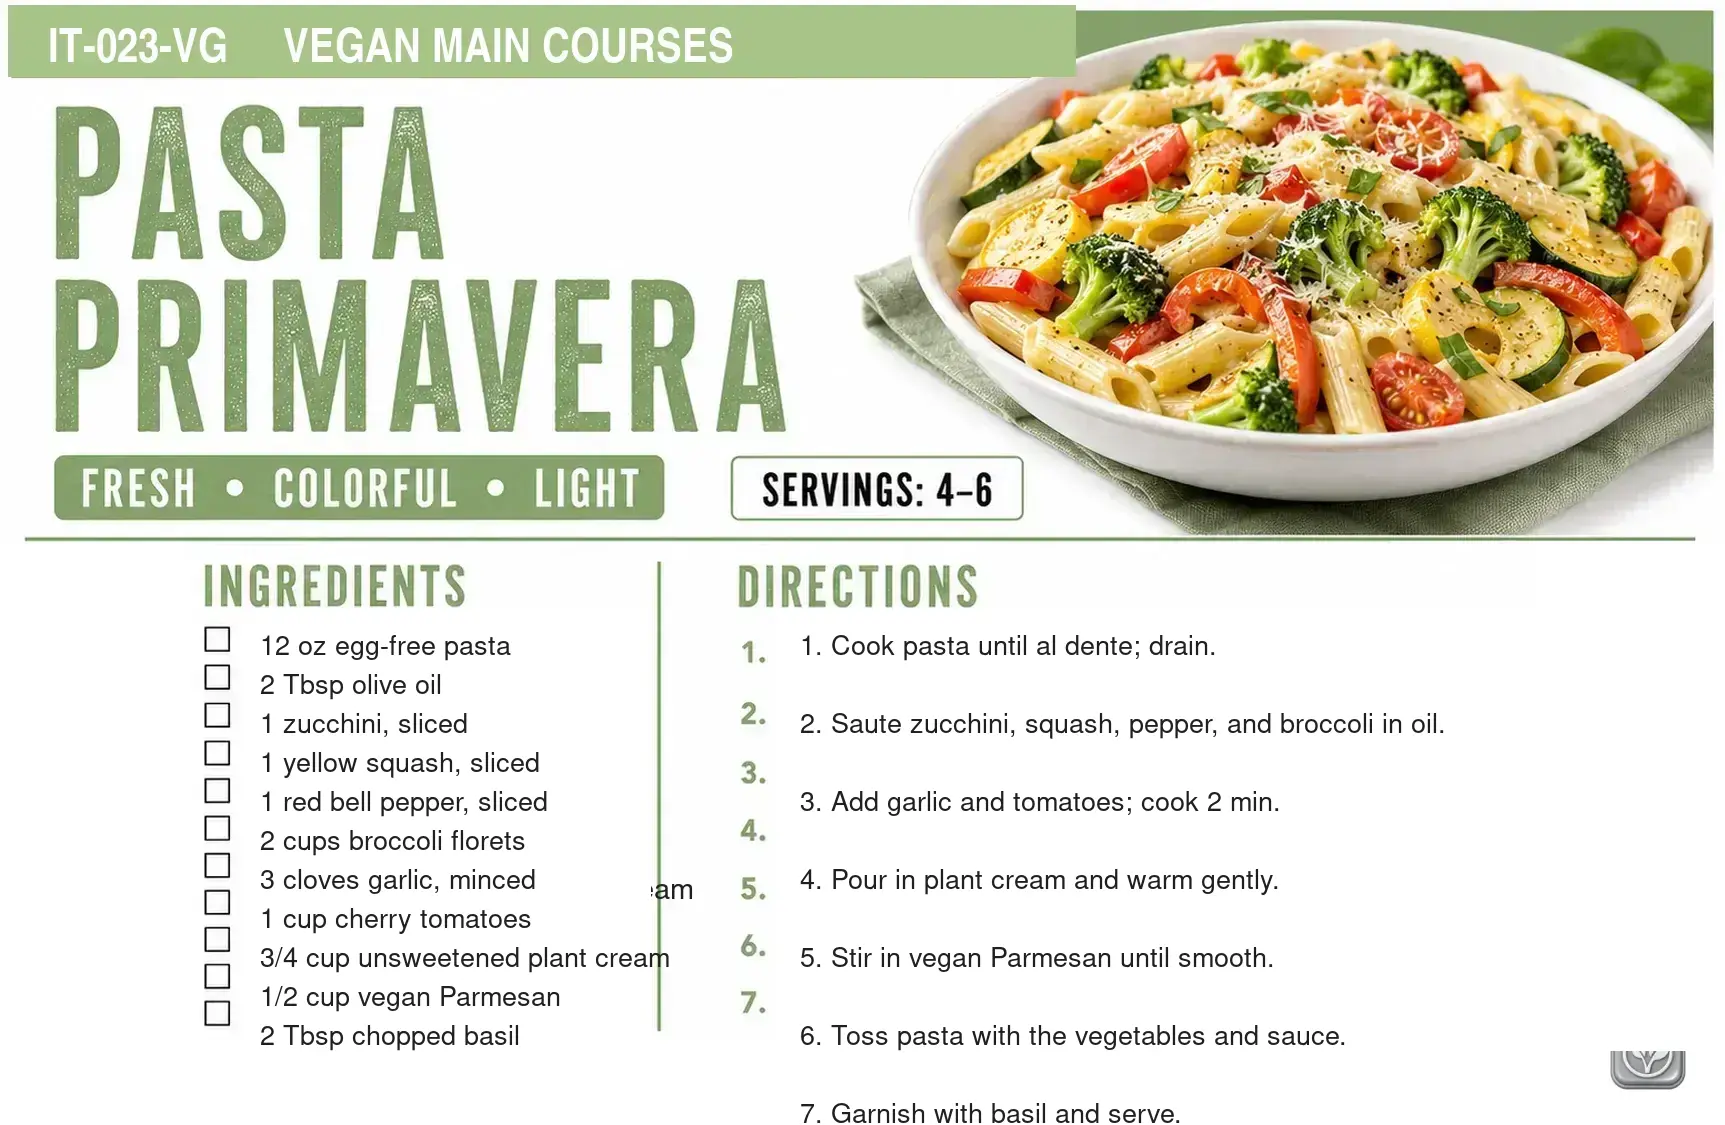
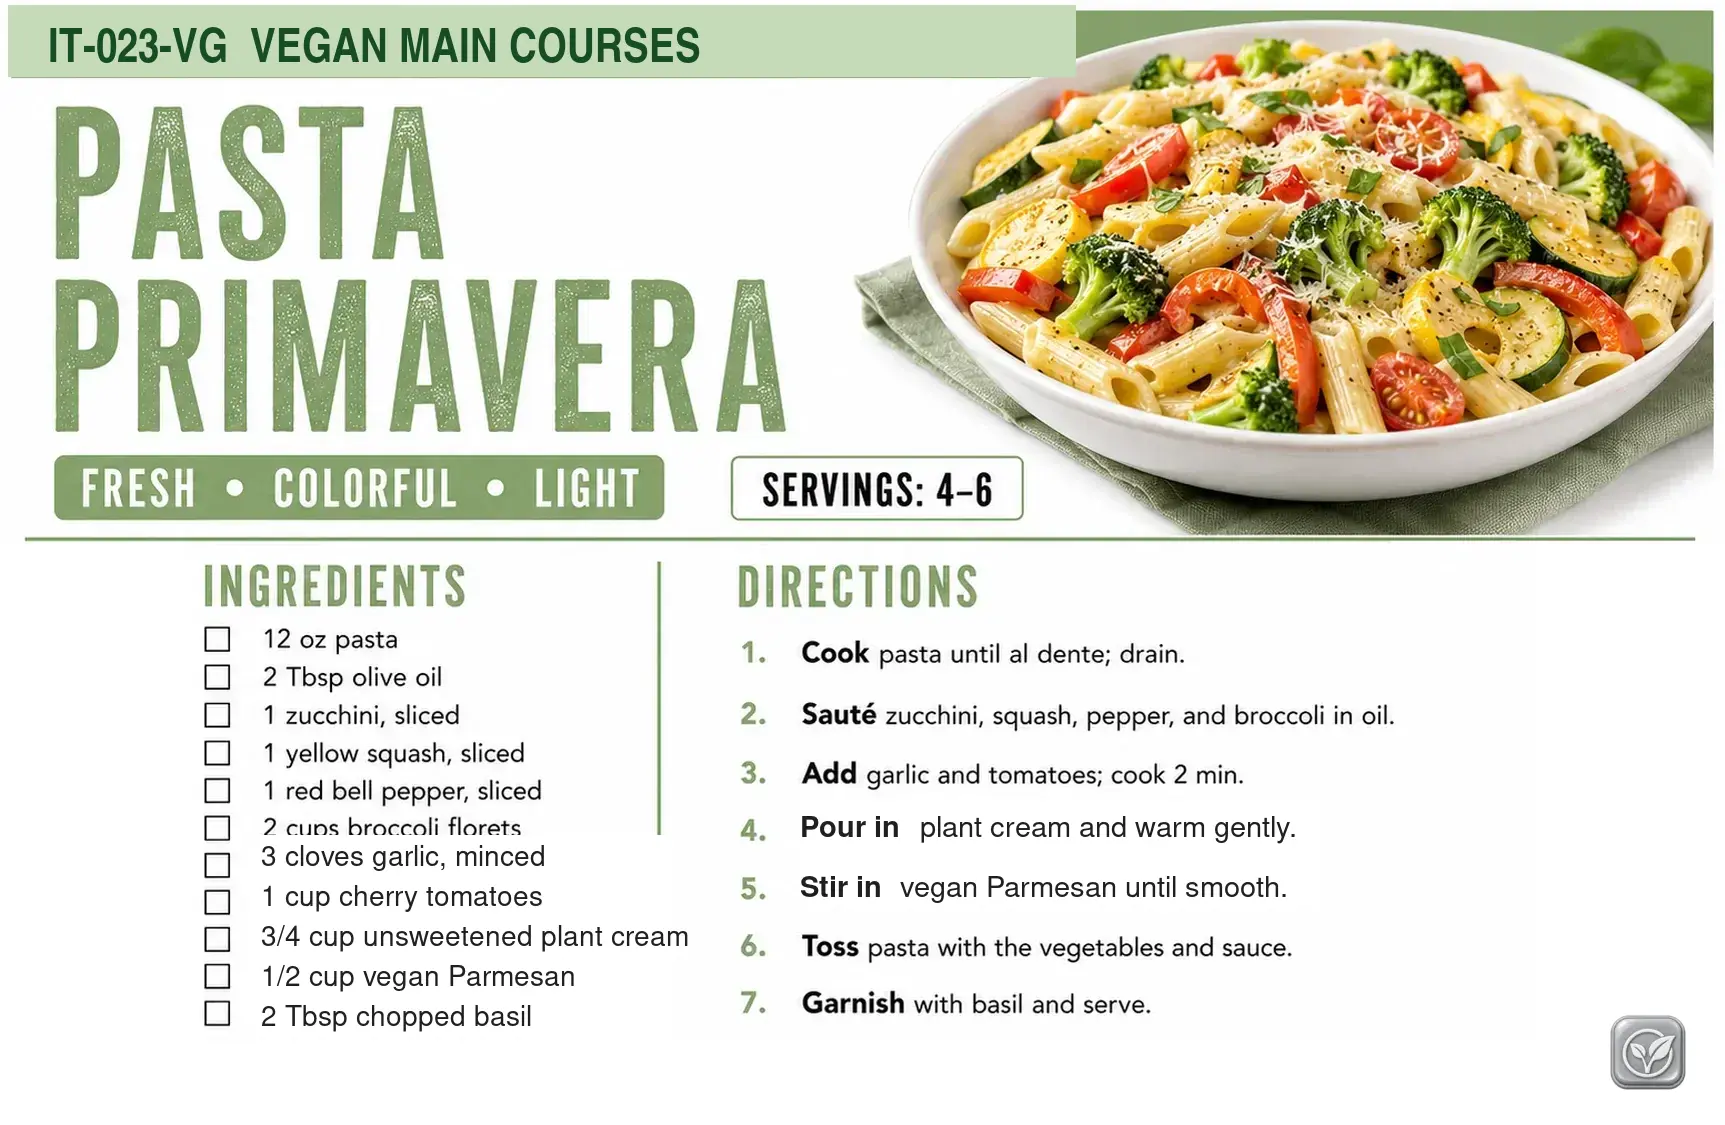
Add files via upload

diff --git a/src/data/veganRecipes.js b/src/data/veganRecipes.js
@@ -73,6 +73,11 @@ const SISTER_SOURCE_MAP = [
   ["VG-013", "IT-020-VG", "IT-020", "IT", "Italian Cuisine", "Vegan Meatballs Marinara", 4, 380],
   ["VG-005", "MX-008-VG", "MX-008", "MX", "Mexican Cuisine", "Lentil Walnut Tacos", 4, 410],
   ["VG-021", "SF-005-VG", "SF-005", "SF", "Seafood Dishes", "Vegan Crab Cakes", 3, 260],
+  ["VG-004", "MX-006-VG", "MX-006", "MX", "Mexican Cuisine", "Black Bean Corn Enchiladas", 4, 390],
+  ["VG-011", "AS-008-VG", "AS-008", "AS", "Asian Cuisine", "Sweet and Sour Tofu", 4, 370],
+  ["VG-014", "IT-015-VG", "IT-015", "IT", "Italian Cuisine", "Lentil Bolognese", 4, 400],
+  ["VG-016", "IT-029-VG", "IT-029", "IT", "Italian Cuisine", "Tofu Ricotta Stuffed Shells", 4, 410],
+  ["VG-017", "AM-020-VG", "AM-020", "AM", "American Cuisine", "Vegan Mushroom Stroganoff", 5, 420],
 ];
 
 for (const [sourceId, id, originalRecipeId, categoryCode, category, title, mealBalanceScore, calories] of SISTER_SOURCE_MAP) {

diff --git a/src/data/recipes.js b/src/data/recipes.js
@@ -2310,12 +2310,17 @@ const SISTER_LINKS = Object.freeze({
   "AM-001": "AM-001-VG",
   "AM-007": "AM-007-VG",
   "AM-009": "AM-009-VG",
+  "AM-020": "AM-020-VG",
   "AM-025": "AM-025-VG",
   "AS-007": "AS-007-VG",
+  "AS-008": "AS-008-VG",
   "AS-010": "AS-010-VG",
   "AS-019": "AS-019-VG",
   "IT-020": "IT-020-VG",
   "IT-023": "IT-023-VG",
+  "IT-015": "IT-015-VG",
+  "IT-029": "IT-029-VG",
+  "MX-006": "MX-006-VG",
   "MX-008": "MX-008-VG",
   "SF-005": "SF-005-VG",
 });
